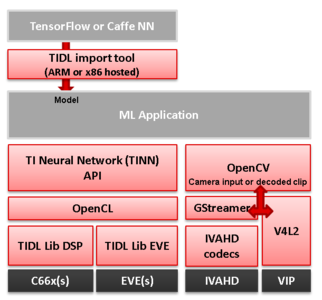
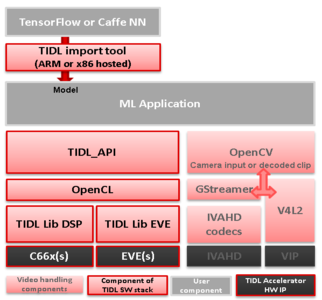
examples:classification: Increase main window and update picture of TIDL SW stack
- MCT-1049

diff --git a/examples/classification/main.cpp b/examples/classification/main.cpp
@@ -69,14 +69,14 @@ char video_clip[320];
 #define Y_OFFSET 52
 #define Y_STEP   224
 #else
-#define RES_X 244
-#define RES_Y 244
+#define RES_X 480
+#define RES_Y 480
 #define NUM_ROI_X 1
 #define NUM_ROI_Y 1
 #define X_OFFSET 10
-#define X_STEP   224
+#define X_STEP   460
 #define Y_OFFSET 10
-#define Y_STEP   224
+#define Y_STEP   460
 #endif
 
 #define NUM_ROI (NUM_ROI_X * NUM_ROI_Y)
@@ -102,7 +102,7 @@ void imagenetCallBackFunc(int event, int x, int y, int flags, void* userdata)
 }
 #endif
 
-Mat in_image, image, r_image, show_image, bgr_frames[3];
+Mat in_image, image, r_image, cnn_image, show_image, bgr_frames[3];
 Mat to_stream;
 Rect rectCrop[NUM_ROI];
 double avg_fps;
@@ -230,7 +230,7 @@ bool RunConfiguration(const std::string& config_file, int num_layers_groups, uin
             for(int i = 0; i < 3; i ++)
                 selclass_history[k][i] = -1;
         avg_fps = 0.0;
-        int num_frames = 99999;
+        int num_frames = 999999;
         std::cout << "About to start ProcessFrame loop!!" << std::endl;
  
         // Process frames with available EOPs in a pipelined manner
@@ -450,7 +450,7 @@ bool SetupInput(VideoCapture& cap, VideoWriter& writer)
    for (int y = 0; y < NUM_ROI_Y; y ++) {
       for (int x = 0; x < NUM_ROI_X; x ++) {
          rectCrop[y * NUM_ROI_X + x] = Rect(X_OFFSET + x * X_STEP,
-                                            Y_OFFSET + y * Y_STEP, 224, 224);
+                                            Y_OFFSET + y * Y_STEP, X_STEP, Y_STEP);
          std::cout << "Rect[" << X_OFFSET + x * X_STEP << ", "
                    << Y_OFFSET + y * Y_STEP << "]" << std::endl;
       }
@@ -467,7 +467,21 @@ bool ReadFrame(ExecutionObjectPipeline* eop,
     {
         if (cap.retrieve(in_image))
         {
-            cv::resize(in_image, image, Size(RES_X,RES_Y));
+            if(live_input >= 0)
+            { //Crop central square portion
+              int loc_xmin = (in_image.size().width - in_image.size().height) / 2; //Central position
+              int loc_ymin = 0;
+              int loc_w = in_image.size().height;
+              int loc_h = in_image.size().height;
+
+              cv::resize(in_image(Rect(loc_xmin, loc_ymin, loc_w, loc_h)), image, Size(RES_X, RES_Y));
+            } else {
+              if((in_image.size().width != RES_X) || (in_image.size().height != RES_Y)) 
+              {  
+                cv::resize(in_image, image, Size(RES_X,RES_Y));
+              }
+            }
+
             r_image = Mat(image, rectCrop[frame_idx % NUM_ROI]);
 
 #ifdef LIVE_DISPLAY
@@ -479,7 +493,8 @@ bool ReadFrame(ExecutionObjectPipeline* eop,
             }
 #endif
                 //Convert from BGR pixel interleaved to BGR plane interleaved!
-            cv::split(r_image, bgr_frames);
+            cv::resize(r_image, cnn_image, Size(224,224));
+            cv::split(cnn_image, bgr_frames);
             tf_preprocess((uchar*) eop->GetInputBufferPtr(),
                           bgr_frames[0].ptr(), 224*224);
             tf_preprocess((uchar*) eop->GetInputBufferPtr()+224*224,
@@ -592,6 +607,8 @@ void DisplayFrame(const ExecutionObjectPipeline* eop, VideoWriter& writer,
 
 #ifdef LIVE_DISPLAY
     cv::imshow(imagenet_win, show_image);
+#endif
+
 #endif
 
 #ifdef RMT_GST_STREAMER
